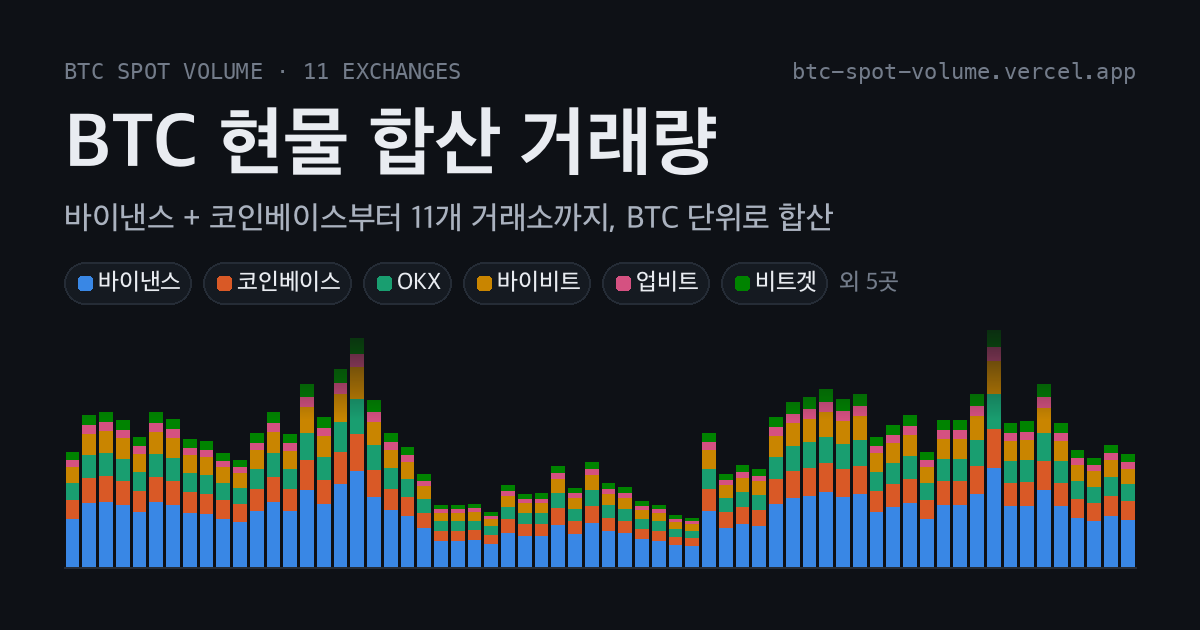
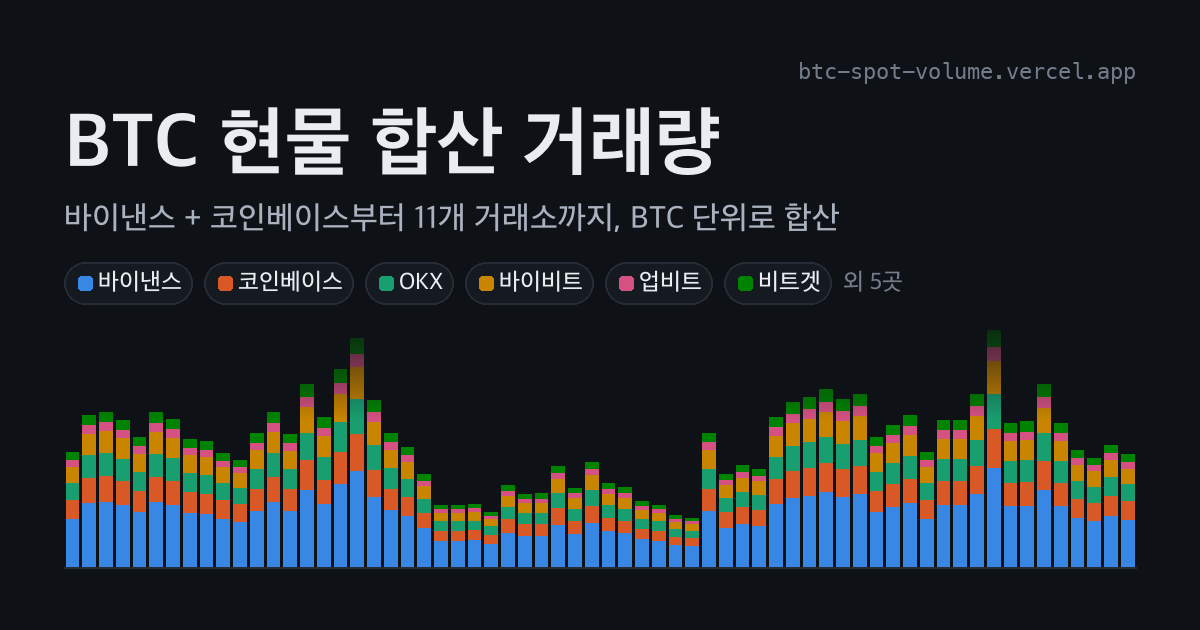
Drop boxes around summary and table, eyebrow on preview images

diff --git a/index.html b/index.html
@@ -83,8 +83,9 @@ h1 small { display: block; font-size: 13px; font-weight: 400; color: var(--fg-3)
 @keyframes pulse { 50% { opacity: .3; } }
 @media (prefers-reduced-motion: reduce) { .dot.busy { animation: none; } }
 
-.summary { display: grid; grid-template-columns: repeat(auto-fit, minmax(200px, 1fr)); gap: 1px; background: var(--line); border: 1px solid var(--line); border-radius: 8px; overflow: hidden; }
-.tile { background: var(--panel); padding: 14px 16px; min-width: 0; }
+/* Summary sits on the page: hairlines between figures, no box around them. */
+.summary { display: grid; grid-template-columns: repeat(auto-fit, minmax(200px, 1fr)); gap: 1px; background: var(--line); border-block: 1px solid var(--line); margin-inline: -16px; }
+.tile { background: var(--bg); padding: 14px 16px; min-width: 0; }
 .tile .label { font-size: 12px; color: var(--fg-3); }
 .tile .big { font-size: 26px; font-weight: 600; line-height: 1.2; margin-top: 2px; }
 .tile .sub { font-size: 12px; color: var(--fg-2); }
@@ -136,7 +137,7 @@ button:focus-visible { outline: 2px solid var(--accent); outline-offset: 2px; }
 .legend .rows .it em { color: var(--fg-3); font-style: normal; }
 .legend .tot { font-weight: 600; color: var(--fg); }
 
-.tablewrap { background: var(--panel); border: 1px solid var(--line); border-radius: 8px; overflow-x: auto; }
+.tablewrap { border-top: 1px solid var(--line); overflow-x: auto; }
 table { width: 100%; border-collapse: collapse; font-size: 13px; }
 th, td { padding: 9px 12px; text-align: left; white-space: nowrap; border-bottom: 1px solid var(--line); }
 th { font-size: 12px; font-weight: 500; color: var(--fg-3); }

diff --git a/scripts/make_og.py b/scripts/make_og.py
@@ -47,7 +47,6 @@ for yy in range(H):
 img.paste(Image.new('RGB', (W, H), BG), (0, 0), fade)
 d = ImageDraw.Draw(img)
 
-d.text((64, 58), 'BTC SPOT VOLUME · 11 EXCHANGES', font=ImageFont.truetype(MONO, 22), fill=FG3)
 d.text((64, 100 + (76 - COPY['title_size']) // 2), COPY['title'], font=f(COPY['title_size'], 6), fill=FG)
 d.text((64, 200), COPY['sub'], font=f(32, 2), fill=FG2)
 
